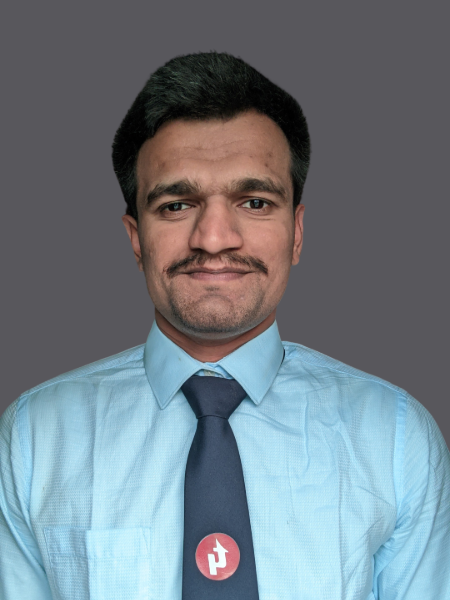
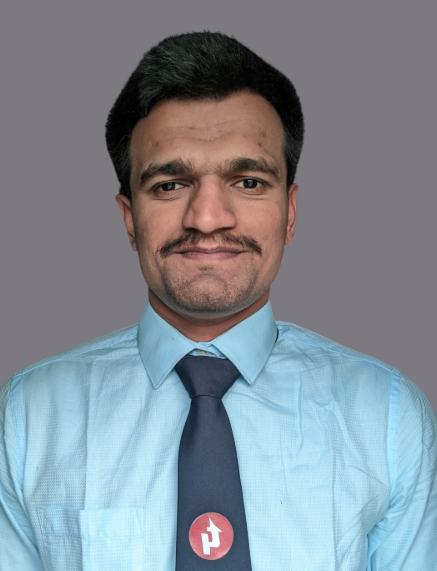
""

diff --git a/style.css b/style.css
@@ -89,7 +89,6 @@ nav ul li a:hover::after{
     flex-basis: 35%;
 }
 .about-col-1 img{
-    margin-top: 11px;
     width: 100%;
     border-radius: 15px;
 }
